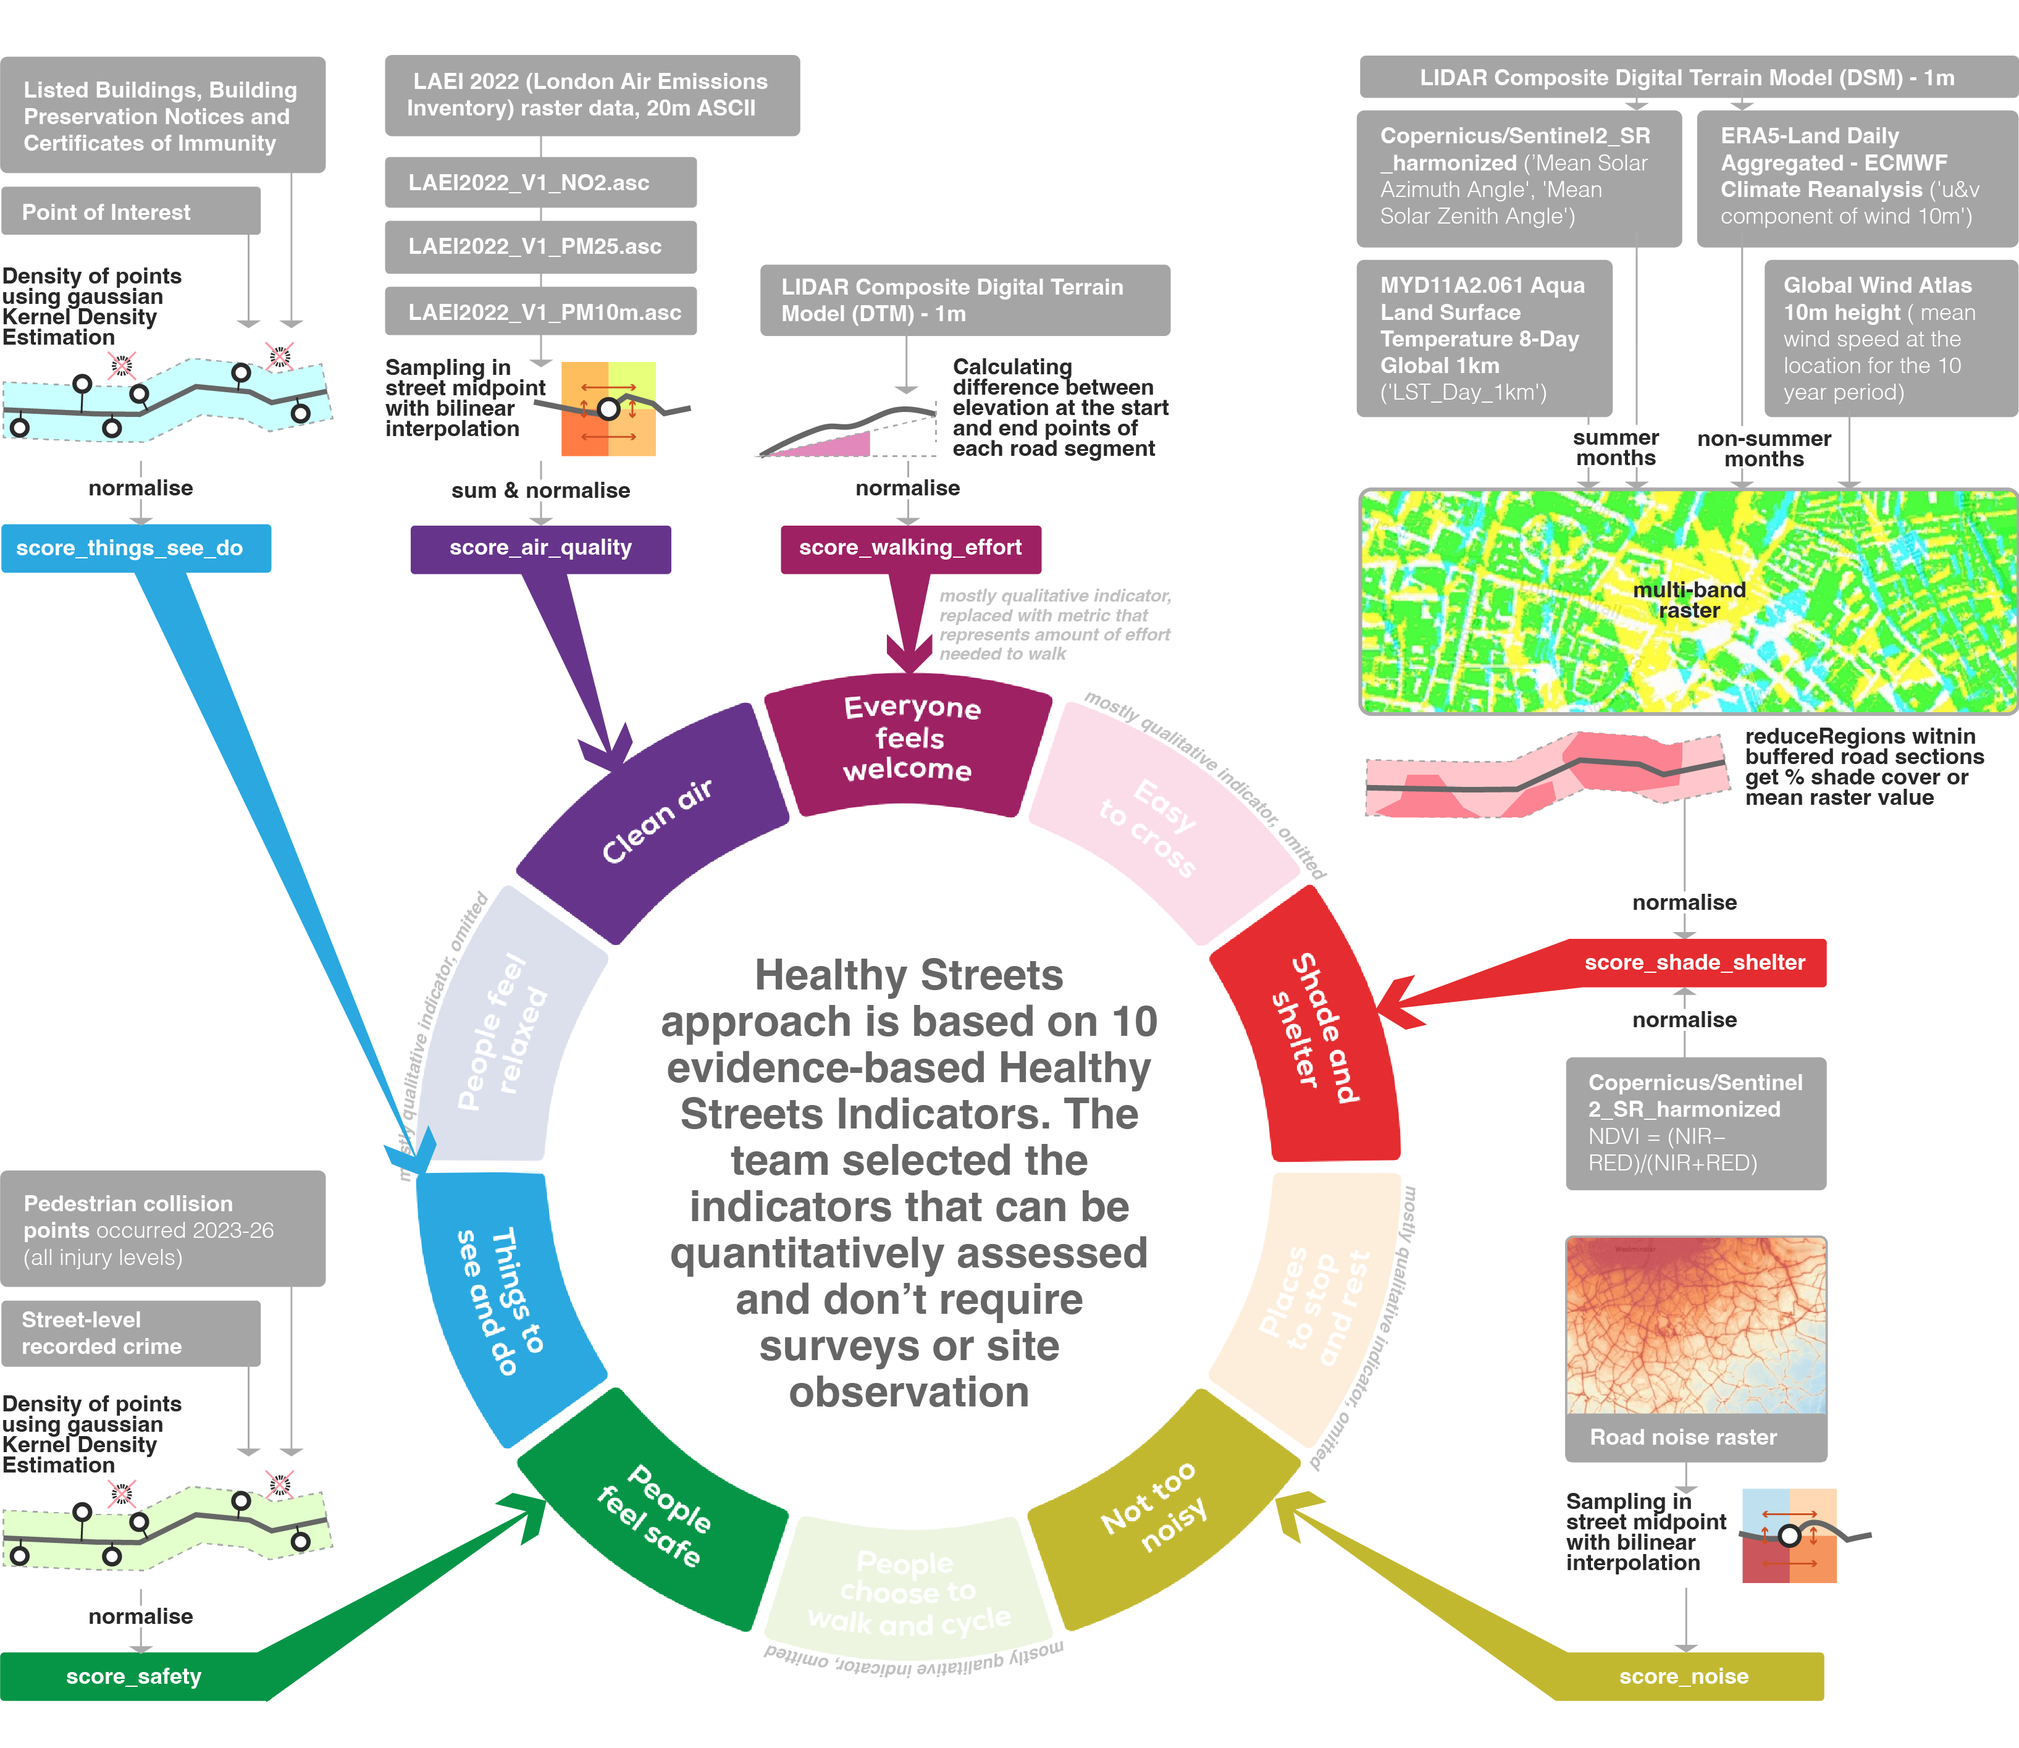
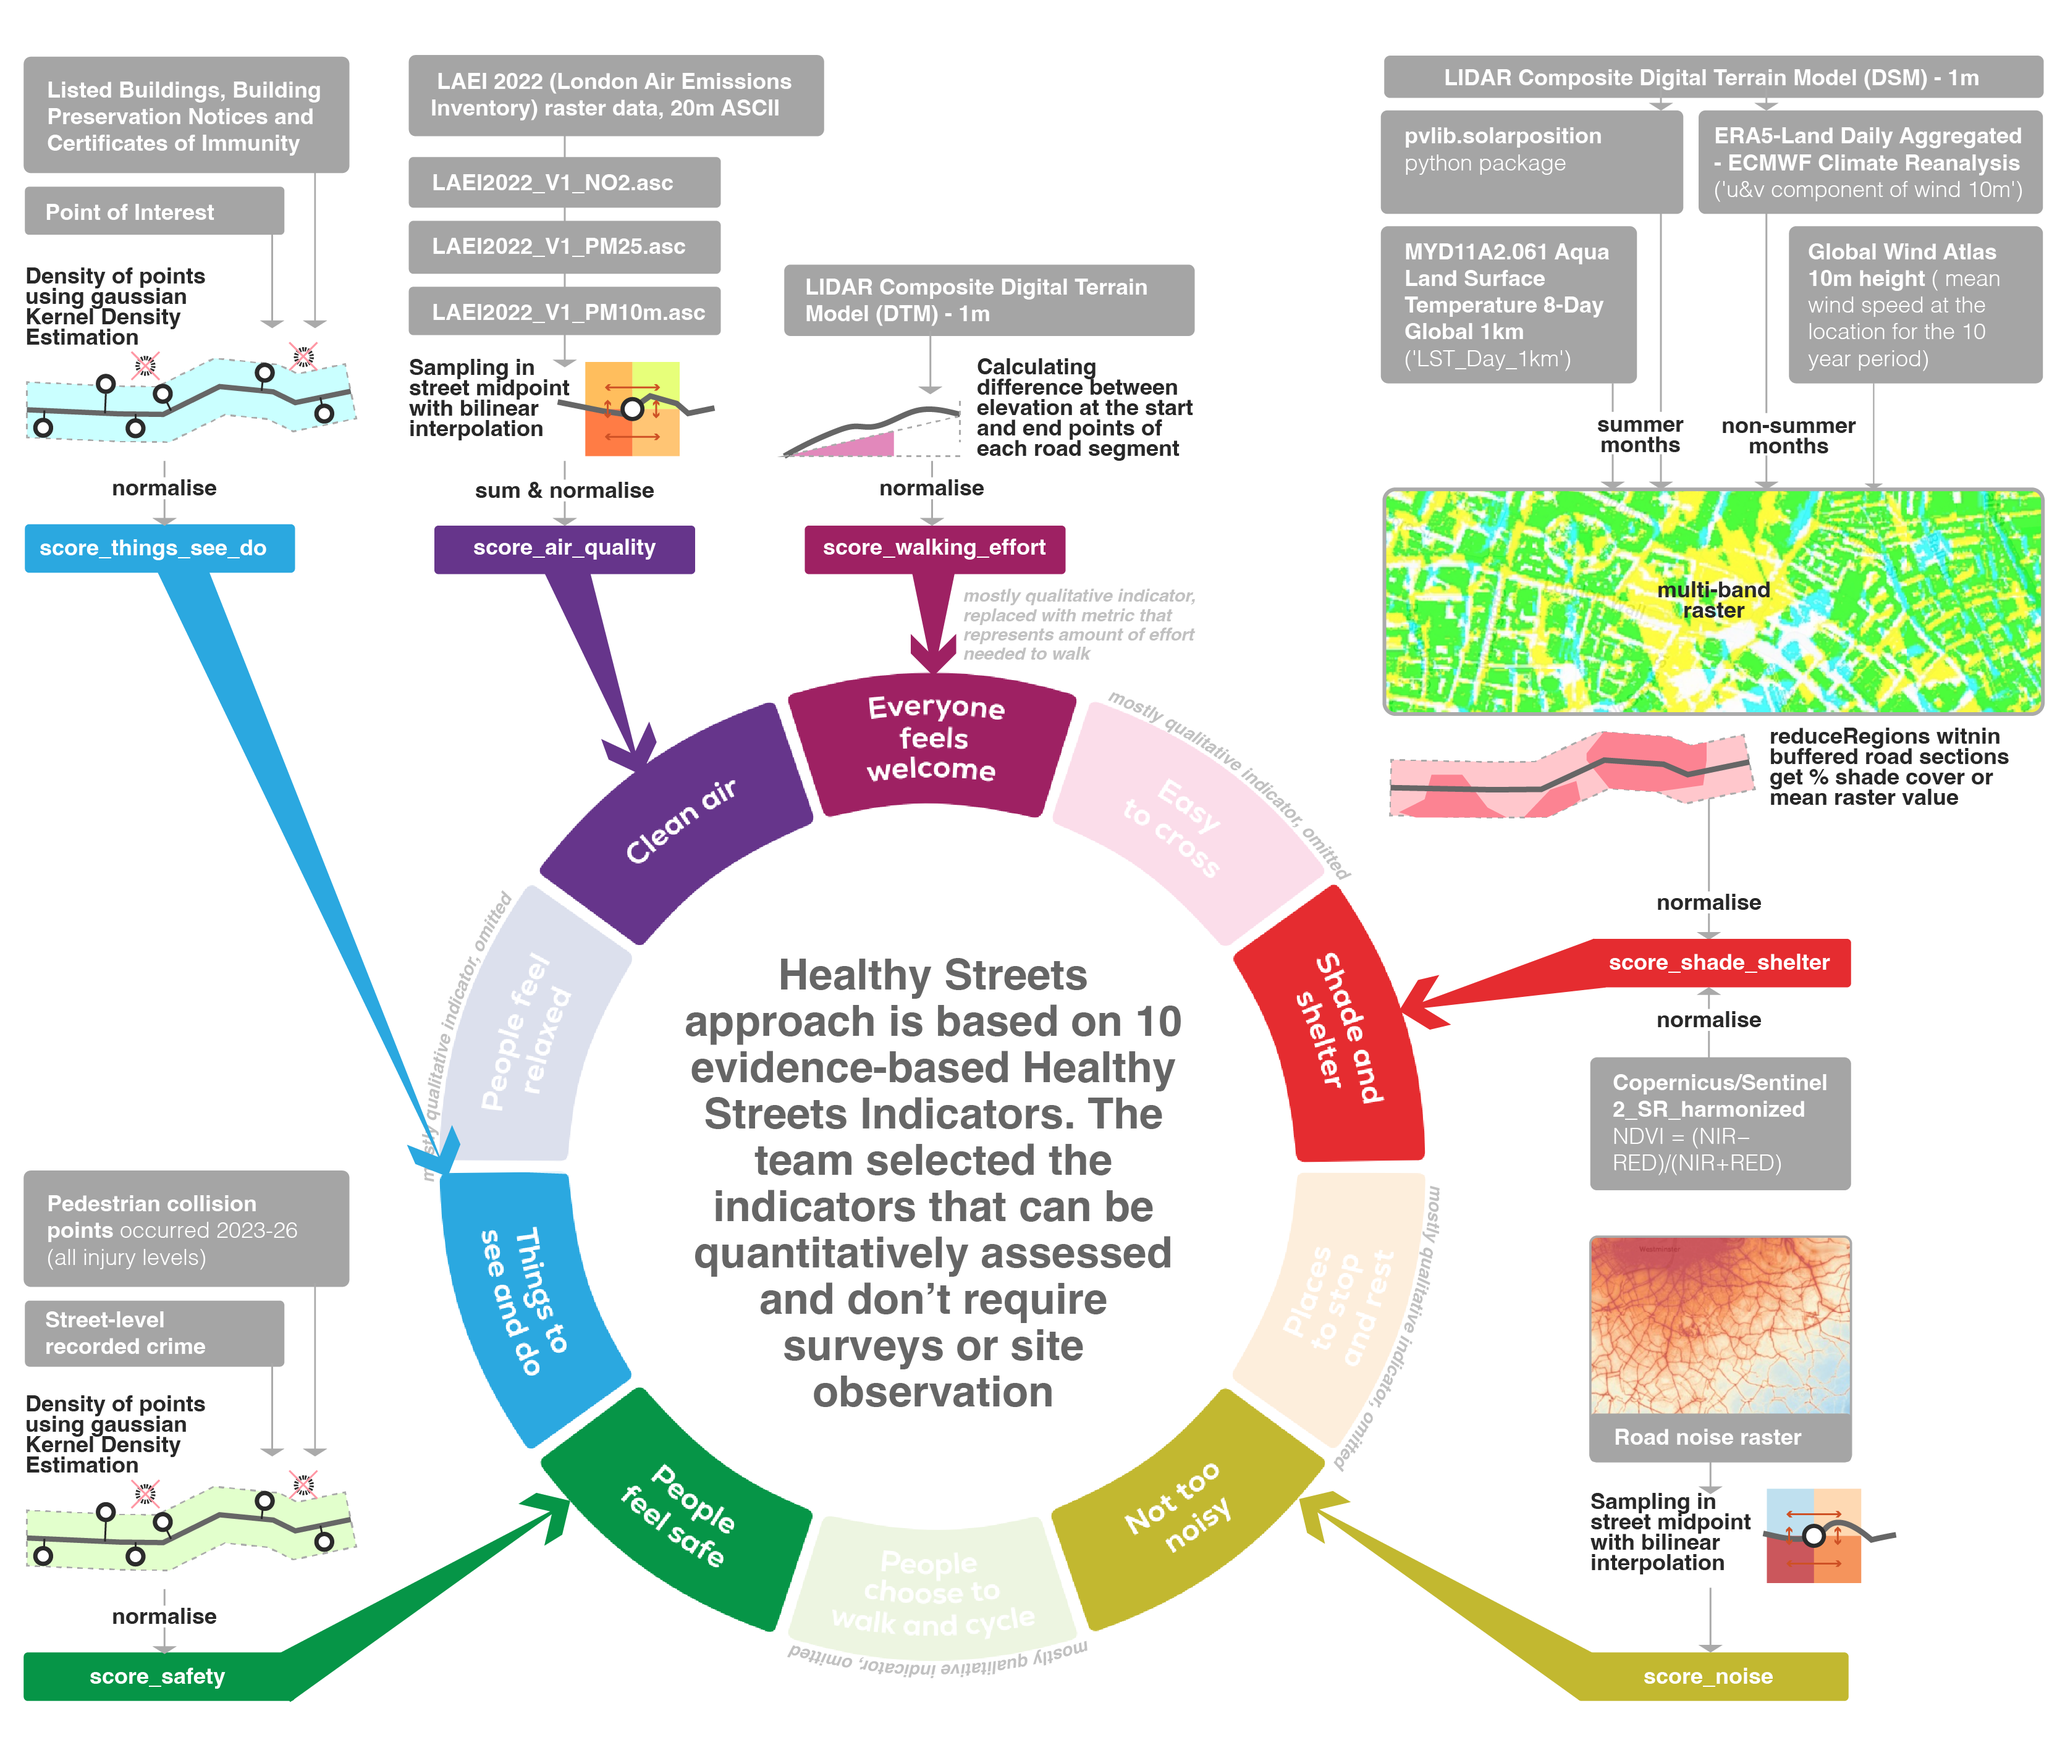
added a separate solar position calculation script

diff --git a/docs/index.html b/docs/index.html
@@ -355,10 +355,7 @@ window.Quarto = {
   <li><a href="#the-application" id="toc-the-application" class="nav-link" data-scroll-target="#the-application">The Application</a></li>
   <li><a href="#how-it-works" id="toc-how-it-works" class="nav-link" data-scroll-target="#how-it-works">How it Works</a>
   <ul class="collapse">
-  <li><a href="#everyone-feels-welcome" id="toc-everyone-feels-welcome" class="nav-link" data-scroll-target="#everyone-feels-welcome">Everyone feels welcome</a></li>
-  <li><a href="#things-to-see-and-do-feeling-safe" id="toc-things-to-see-and-do-feeling-safe" class="nav-link" data-scroll-target="#things-to-see-and-do-feeling-safe">Things to see and do &amp; feeling safe</a></li>
-  <li><a href="#clean-air-noise" id="toc-clean-air-noise" class="nav-link" data-scroll-target="#clean-air-noise">Clean air &amp; noise</a></li>
-  <li><a href="#shade-and-shelter" id="toc-shade-and-shelter" class="nav-link" data-scroll-target="#shade-and-shelter">Shade and shelter</a></li>
+  <li><a href="#indicator-precomputations" id="toc-indicator-precomputations" class="nav-link" data-scroll-target="#indicator-precomputations">Indicator Precomputations</a></li>
   <li><a href="#network-graph-and-routing" id="toc-network-graph-and-routing" class="nav-link" data-scroll-target="#network-graph-and-routing">Network graph and routing</a></li>
   </ul></li>
   <li><a href="#references" id="toc-references" class="nav-link" data-scroll-target="#references">References</a></li>
@@ -515,14 +512,32 @@ w_{\text{length}} \cdot \text{length}_{\text{norm}} \\
 </section>
 <section id="how-it-works" class="level2">
 <h2 class="anchored" data-anchor-id="how-it-works">How it Works</h2>
-<section id="everyone-feels-welcome" class="level3">
-<h3 class="anchored" data-anchor-id="everyone-feels-welcome">Everyone feels welcome</h3>
-</section>
-<section id="things-to-see-and-do-feeling-safe" class="level3">
-<h3 class="anchored" data-anchor-id="things-to-see-and-do-feeling-safe">Things to see and do &amp; feeling safe</h3>
-</section>
-<section id="clean-air-noise" class="level3">
-<h3 class="anchored" data-anchor-id="clean-air-noise">Clean air &amp; noise</h3>
+<section id="indicator-precomputations" class="level3">
+<h3 class="anchored" data-anchor-id="indicator-precomputations">Indicator Precomputations</h3>
+<p><strong>Everyone feels welcome</strong></p>
+<p><strong>Things to see and do &amp; feeling safe</strong></p>
+<p>The point-based scores are constructed using the “hot routes” approach that plots point distributions on linear networks; the approach was originally developed for crime analysis (Tompson, Partridge and Shepherd, 2009) to better represent route-based concentrations. The <a href="https://github.com/iiishop/CASA0025_Project/blob/main/composite_indicators_module/network_kde.py">script</a> projects points onto street segments, then calculates the density of points based on the gaussian kernel with distance decay, and finally normalises the segment point density by its length.</p>
+<p><span class="math display">\[
+\Large
+\text{KDE}_{\text{segment}}
+=
+\frac{
+\sum_{i=1}^{n}
+e^{-0.5 \times \left(d_i / b\right)^2}
+}{
+\text{L}
+}
+\]</span></p>
+<p>Where:</p>
+<p><span class="math display">\[
+\begin{aligned}
+d_i &amp;= \text{distance from point } i \text{ to street segment (meters)} \\
+b &amp;= \text{bandwith, equals 100 meters in the code example} \\
+n &amp;= \text{number of points within 100 m} \\
+L &amp;= \text{street segment length (meters)}
+\end{aligned}
+\]</span></p>
+<p><strong>Clean air &amp; noise</strong></p>
 <div class="scroll-container" style="overflow-y: scroll; height: 300px; ">
 <div class="code-copy-outer-scaffold"><div class="sourceCode" id="cb1"><pre class="sourceCode javascript code-with-copy"><code class="sourceCode javascript"><span id="cb1-1"><a href="#cb1-1" aria-hidden="true" tabindex="-1"></a><span class="co">// Run zonal stats for one batch</span></span>
 <span id="cb1-2"><a href="#cb1-2" aria-hidden="true" tabindex="-1"></a><span class="kw">function</span> <span class="fu">computeBatchStats</span>(roadsBatch) {</span>
@@ -537,9 +552,7 @@ w_{\text{length}} \cdot \text{length}_{\text{norm}} \\
 <span id="cb1-11"><a href="#cb1-11" aria-hidden="true" tabindex="-1"></a>  })<span class="op">;</span></span>
 <span id="cb1-12"><a href="#cb1-12" aria-hidden="true" tabindex="-1"></a>}</span></code></pre></div><button title="Copy to Clipboard" class="code-copy-button"><i class="bi"></i></button></div>
 </div>
-</section>
-<section id="shade-and-shelter" class="level3">
-<h3 class="anchored" data-anchor-id="shade-and-shelter">Shade and shelter</h3>
+<p><strong>Shade and shelter</strong></p>
 <p>Use <code>Map.setCenter()</code> to move the map.</p>
 <div class="scroll-container" style="overflow-y: scroll; height: 300px; ">
 <div class="code-copy-outer-scaffold"><div class="sourceCode" id="cb2"><pre class="sourceCode javascript code-with-copy"><code class="sourceCode javascript"><span id="cb2-1"><a href="#cb2-1" aria-hidden="true" tabindex="-1"></a></span></code></pre></div><button title="Copy to Clipboard" class="code-copy-button"><i class="bi"></i></button></div>
